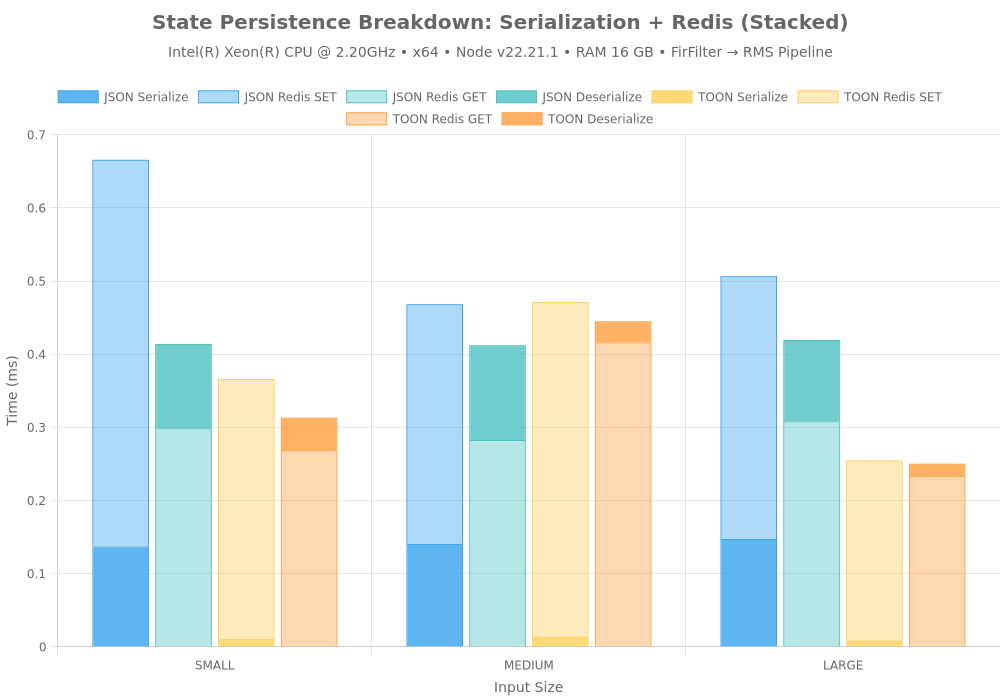
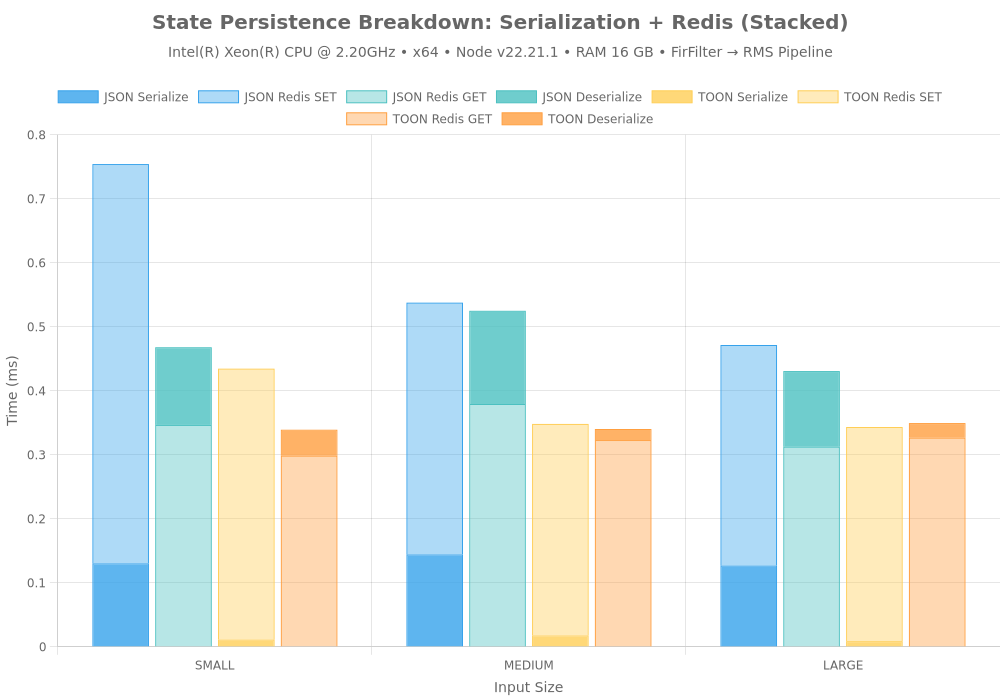
intel xeon persistence updated

diff --git a/reports/BENCHMARKS-intel-xeon-cpu-220ghz.md b/reports/BENCHMARKS-intel-xeon-cpu-220ghz.md
@@ -196,31 +196,31 @@ Testing pipeline state serialization for crash recovery (FirFilter → RMS pipel
 
 | Input Size | Format | Serialize | Redis SET | Redis GET | Deserialize | Total Save | Total Load | State Size | Seamless |
 |------------|--------|-----------|-----------|-----------|-------------|------------|------------|------------|----------|
-| SMALL | JSON | 0.137 | 0.529 | 0.299 | 0.115 | 0.666 | 0.414 | 5.88 KB | ✅ |
-| SMALL | TOON | 0.011 | 0.355 | 0.269 | 0.045 | 0.366 | 0.313 | 1.65 KB | ✅ |
-| MEDIUM | JSON | 0.141 | 0.328 | 0.283 | 0.129 | 0.468 | 0.412 | 5.90 KB | ✅ |
-| MEDIUM | TOON | 0.013 | 0.458 | 0.416 | 0.029 | 0.471 | 0.445 | 1.65 KB | ✅ |
-| LARGE | JSON | 0.148 | 0.359 | 0.308 | 0.111 | 0.507 | 0.419 | 5.80 KB | ✅ |
-| LARGE | TOON | 0.009 | 0.246 | 0.233 | 0.017 | 0.255 | 0.250 | 1.65 KB | ✅ |
+| SMALL | JSON | 0.130 | 0.624 | 0.347 | 0.121 | 0.754 | 0.468 | 5.88 KB | ✅ |
+| SMALL | TOON | 0.011 | 0.423 | 0.299 | 0.041 | 0.435 | 0.339 | 1.65 KB | ✅ |
+| MEDIUM | JSON | 0.144 | 0.393 | 0.379 | 0.146 | 0.538 | 0.525 | 5.90 KB | ✅ |
+| MEDIUM | TOON | 0.018 | 0.331 | 0.323 | 0.017 | 0.348 | 0.340 | 1.65 KB | ✅ |
+| LARGE | JSON | 0.127 | 0.345 | 0.313 | 0.118 | 0.472 | 0.431 | 5.80 KB | ✅ |
+| LARGE | TOON | 0.009 | 0.335 | 0.327 | 0.023 | 0.343 | 0.350 | 1.65 KB | ✅ |
 
 **Performance Metrics:**
 
 **JSON Format:**
-- Serialization time: **0.142 ms**
-- Deserialization time: **0.119 ms**
-- Redis SET time: **0.405 ms**
-- Redis GET time: **0.297 ms**
-- **Total save time: 0.547 ms**
-- **Total load time: 0.415 ms**
+- Serialization time: **0.134 ms**
+- Deserialization time: **0.128 ms**
+- Redis SET time: **0.454 ms**
+- Redis GET time: **0.346 ms**
+- **Total save time: 0.588 ms**
+- **Total load time: 0.475 ms**
 - State size: **5.86 KB**
 
 **TOON Format:**
-- Serialization time: **0.011 ms**
-- Deserialization time: **0.030 ms**
-- Redis SET time: **0.353 ms**
-- Redis GET time: **0.306 ms**
-- **Total save time: 0.364 ms**
-- **Total load time: 0.336 ms**
+- Serialization time: **0.013 ms**
+- Deserialization time: **0.027 ms**
+- Redis SET time: **0.363 ms**
+- Redis GET time: **0.316 ms**
+- **Total save time: 0.375 ms**
+- **Total load time: 0.343 ms**
 - State size: **1.65 KB**
 
 **Overall:**
@@ -579,5 +579,5 @@ Measuring safety margin between processing time and buffer duration:
 ---
 
 **Generated by:** dspx benchmark suite v1.0  
-**Date:** 2026-01-29T12:51:54.070Z  
+**Date:** 2026-01-29T12:52:25.184Z  
 **Runtime:** Node.js v22.21.1
